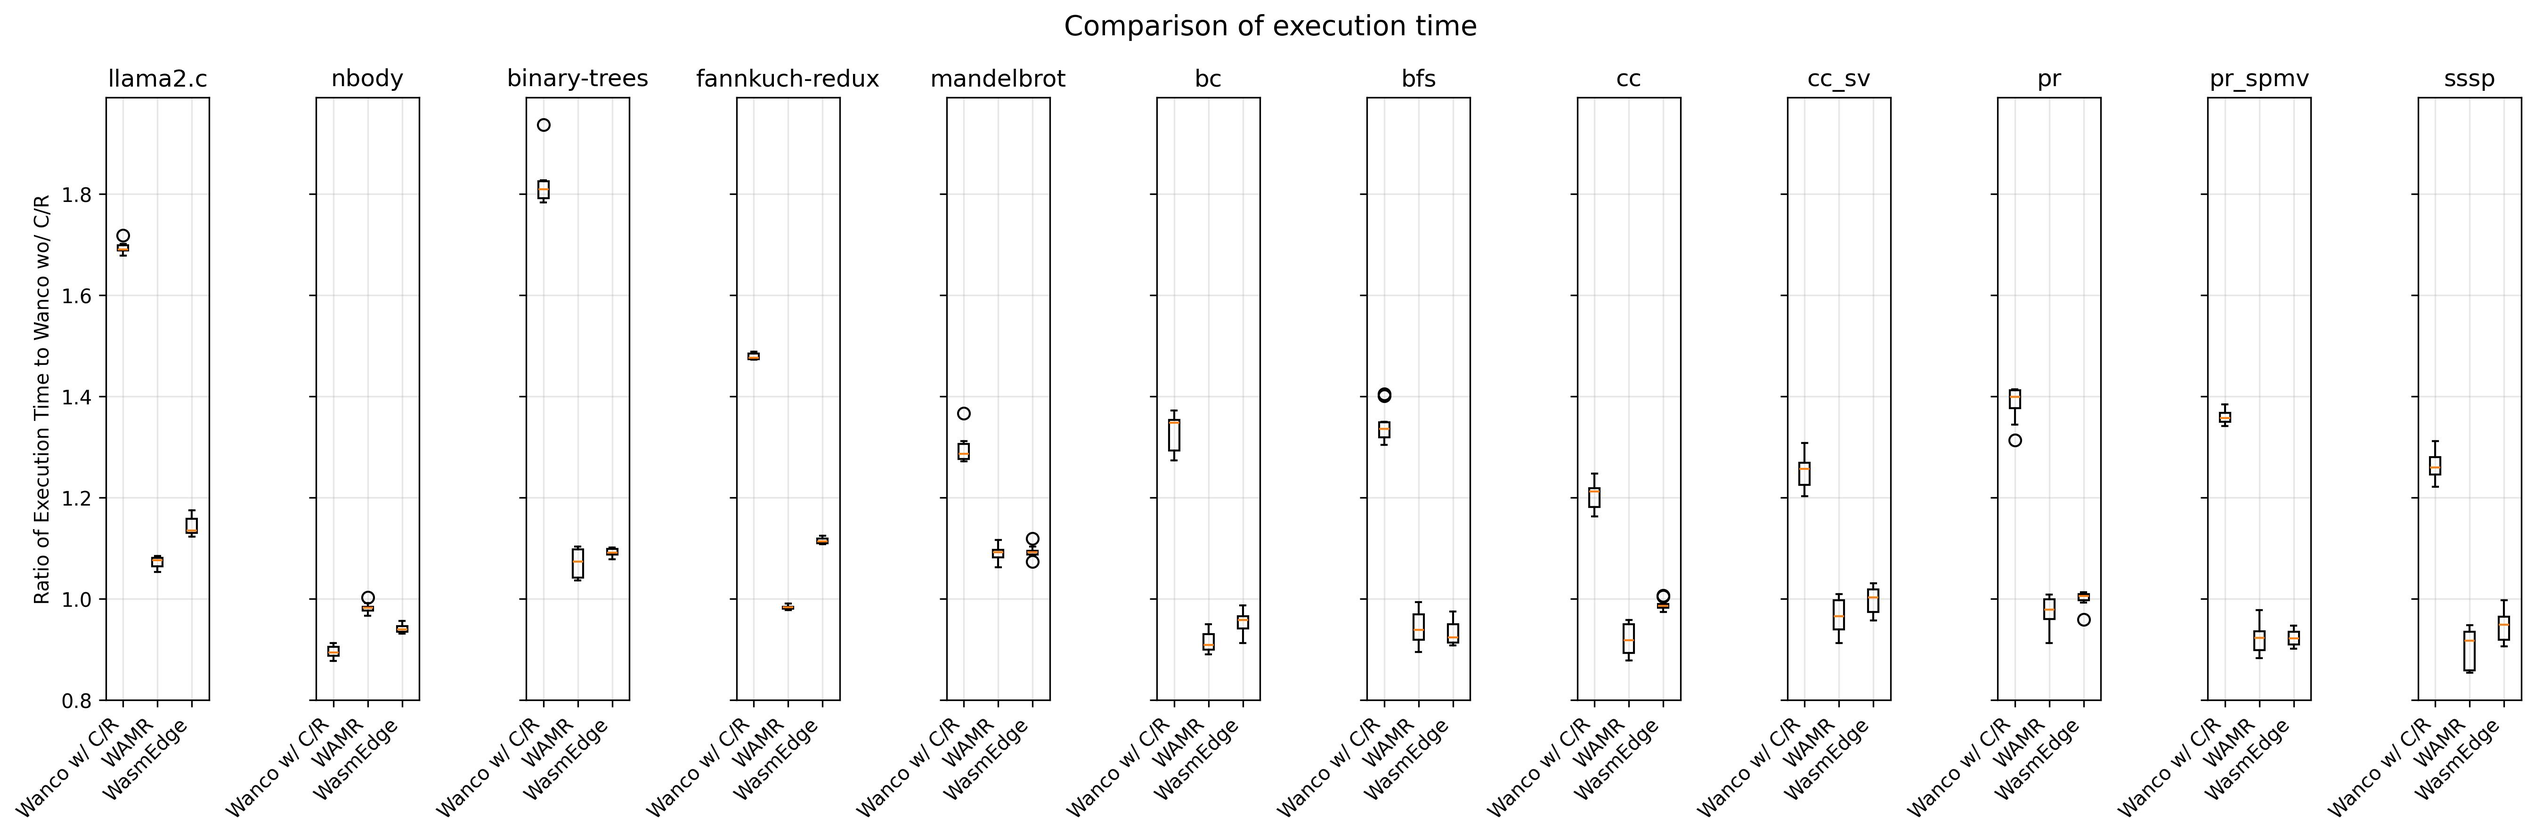
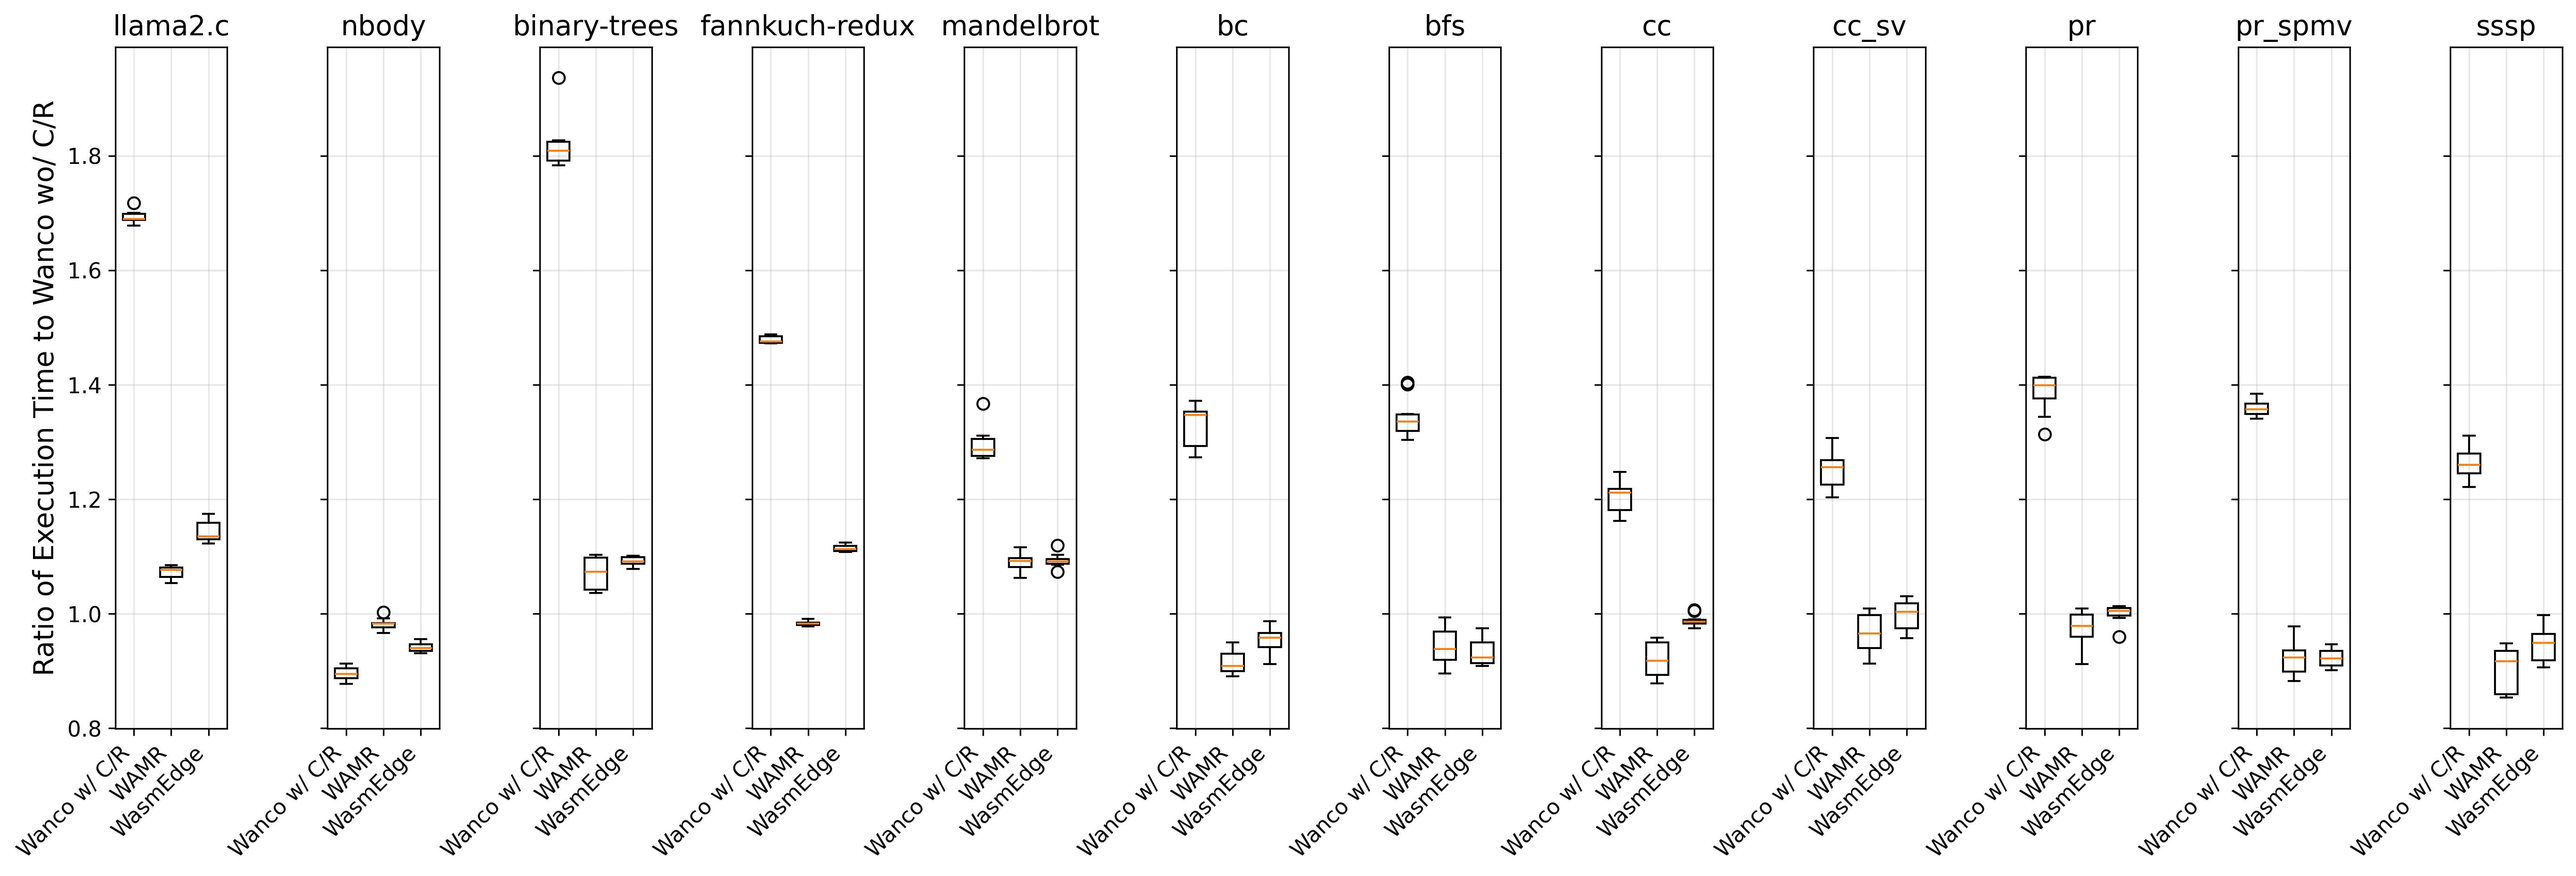
modify font size in graph

diff --git a/benchmark/scripts/plot-exec-time.py b/benchmark/scripts/plot-exec-time.py
@@ -73,17 +73,17 @@ def create_grouped_box_plot(plot_data, filename="overhead.jpg"):
 
     print(f"利用可能なランタイム: {all_runtimes}")
 
+    # フォントサイズ設定
+    label_fontsize = 14
+    tick_fontsize = 11
+    title_fontsize = 14
+
     # 各プログラムについてサブプロットを作成
     for idx, (program, runtime_data) in enumerate(plot_data.items()):
         ax = axes[idx]
 
-        #runtimes = [k for k in runtime_data.keys() if k != "Wanco"]
         runtimes = ["Wanco w/ C/R", "WAMR", "WasmEdge"]
         data_to_plot = [runtime_data[runtime] for runtime in runtimes]
-
-        # Wancoは除外してランタイムを取得
-        # runtimes = [k for k in runtime_data.keys() if k != "Wanco"]
-        # data_to_plot = [runtime_data[runtime] for runtime in runtimes]
 
         # 箱ひげ図を描画
         bp = ax.boxplot(
@@ -92,6 +92,7 @@ def create_grouped_box_plot(plot_data, filename="overhead.jpg"):
             patch_artist=True,
             showfliers=True,
             meanline=True,
+            widths=0.6,  # デフォルトは0.5、これを小さく
         )
 
         # 箱ひげ図の塗りつぶしを無効化（no fill）
@@ -100,20 +101,20 @@ def create_grouped_box_plot(plot_data, filename="overhead.jpg"):
             box.set_alpha(1.0)
 
         # サブプロットの設定
-        ax.set_title(f"{program}")
+        ax.set_title(f"{program}", fontsize=title_fontsize)
         ax.grid(True, alpha=0.3)
 
         # y軸ラベルは最初のサブプロットのみ
         if idx == 0:
-            ax.set_ylabel("Ratio of Execution Time to Wanco wo/ C/R")
+            ax.set_ylabel("Ratio of Execution Time to Wanco wo/ C/R", fontsize=label_fontsize)
 
         # x軸のラベルを45度回転
-        ax.tick_params(axis="x", rotation=45)
+        ax.tick_params(axis="x", labelsize=tick_fontsize, rotation=45)
+        ax.tick_params(axis="y", labelsize=tick_fontsize)
         for tick in ax.get_xticklabels():
             tick.set_horizontalalignment("right")
 
-    plt.suptitle("Comparison of execution time", fontsize=14)
-    plt.tight_layout()
+    plt.tight_layout(pad=0.0, w_pad=0.2, h_pad=0.2)  # サブプロット間の余白を狭く
     plt.savefig(filename, dpi=300, bbox_inches="tight")
     plt.show()
 

diff --git a/benchmark/scripts/plot-code-size.py b/benchmark/scripts/plot-code-size.py
@@ -136,7 +136,7 @@ def main():
         pos_wanco,
         wanco_bars_mib,
         bar_width,
-        label="wanco",
+        label="Wanco",
         color="#ff7f0e",  # オレンジ系統
     )
 
@@ -144,7 +144,7 @@ def main():
         pos_wanco_cr,
         wanco_cr_bars_mib,
         bar_width,
-        label="wanco w/ C/R",
+        label="Wanco w/ C/R",
         color="hotpink",
     )
 
@@ -152,7 +152,7 @@ def main():
         pos_wanco_asyncify,
         wanco_asyncify_bars_mib,
         bar_width,
-        label="wanco w/ asyncify",
+        label="Wanco w/ asyncify",
         color="purple",
     )
 
@@ -192,12 +192,14 @@ def main():
         wanco_bars,
     )
 
+    FONT_SIZE = 20
+
     # グラフの装飾
-    plt.xlabel("Programs")
-    plt.ylabel("Size [MiB]")
-    plt.title("Code Size Comparison")
-    plt.xticks(index, programs_names, rotation=45, ha="right")
-    plt.legend()
+    plt.xlabel("Programs", fontsize=FONT_SIZE)
+    plt.ylabel("Code size [MiB]", fontsize=FONT_SIZE)
+    plt.xticks(index, programs_names, rotation=45, ha="right", fontsize=FONT_SIZE)
+    plt.yticks(fontsize=FONT_SIZE)
+    plt.legend(fontsize=FONT_SIZE)
     plt.grid(axis="y", linestyle="--", alpha=0.7)
 
     # 各バーに値を表示（オプション）
@@ -211,7 +213,7 @@ def main():
                     f"{height:.2f}",
                     ha="center",
                     va="bottom",
-                    fontsize=8,
+                    fontsize=FONT_SIZE,
                     rotation=90,
                 )
 

diff --git a/benchmark/scripts/plot-wasm-vs-criu.py b/benchmark/scripts/plot-wasm-vs-criu.py
@@ -132,7 +132,7 @@ def plot_comparison(
         [i - width / 2 for i in x],
         values_wasm,
         width=width,
-        label="Wasm",  # Wanco -> Wasm に変更
+        label="Wanco",
         color=color_wasm,
     )
     bars_criu = plt.bar(
@@ -169,10 +169,11 @@ def plot_comparison(
             plt.plot([i + width / 2, i + width / 2], 
                      [data_min, data_max], color='black', linewidth=0.5)
     
-    plt.xticks(ticks=x, labels=programs, rotation=45, ha="right")
-    plt.title(f'Comparison of {column.replace("_", " ").capitalize()}')
-    plt.ylabel(y_label)
-    plt.legend()
+    plt.xticks(ticks=x, labels=programs, rotation=45, ha="right", fontsize=20)
+    #plt.title(f'Comparison of {column.replace("_", " ").capitalize()}', fontsize=20)
+    plt.ylabel(y_label, fontsize=20)
+    plt.yticks(fontsize=20)
+    plt.legend(fontsize=20)
     plt.tight_layout()
     plt.savefig(output_file, dpi=300, bbox_inches='tight')
     plt.close()

diff --git a/benchmark/scripts/plot-migration-time.py b/benchmark/scripts/plot-migration-time.py
@@ -348,13 +348,13 @@ def plot_migration_time(
                 )
 
     # X軸のラベルとtickを設定
-    ax.set_xlabel("Programs")
+    ax.set_xlabel("Programs", fontsize=20)
     ax.set_xticks(index)
-    ax.set_xticklabels(programs, rotation=45, ha="right")
+    ax.set_xticklabels(programs, rotation=45, ha="right", fontsize=20)
 
-    plt.title("Comparison of Migration Time")
-    plt.ylabel("Migration Time [ms]")
-    plt.legend()
+    plt.ylabel("Migration time [ms]", fontsize=20)
+    plt.yticks(fontsize=20)
+    plt.legend(fontsize=20)
     plt.tight_layout()
 
     # 高解像度で保存
